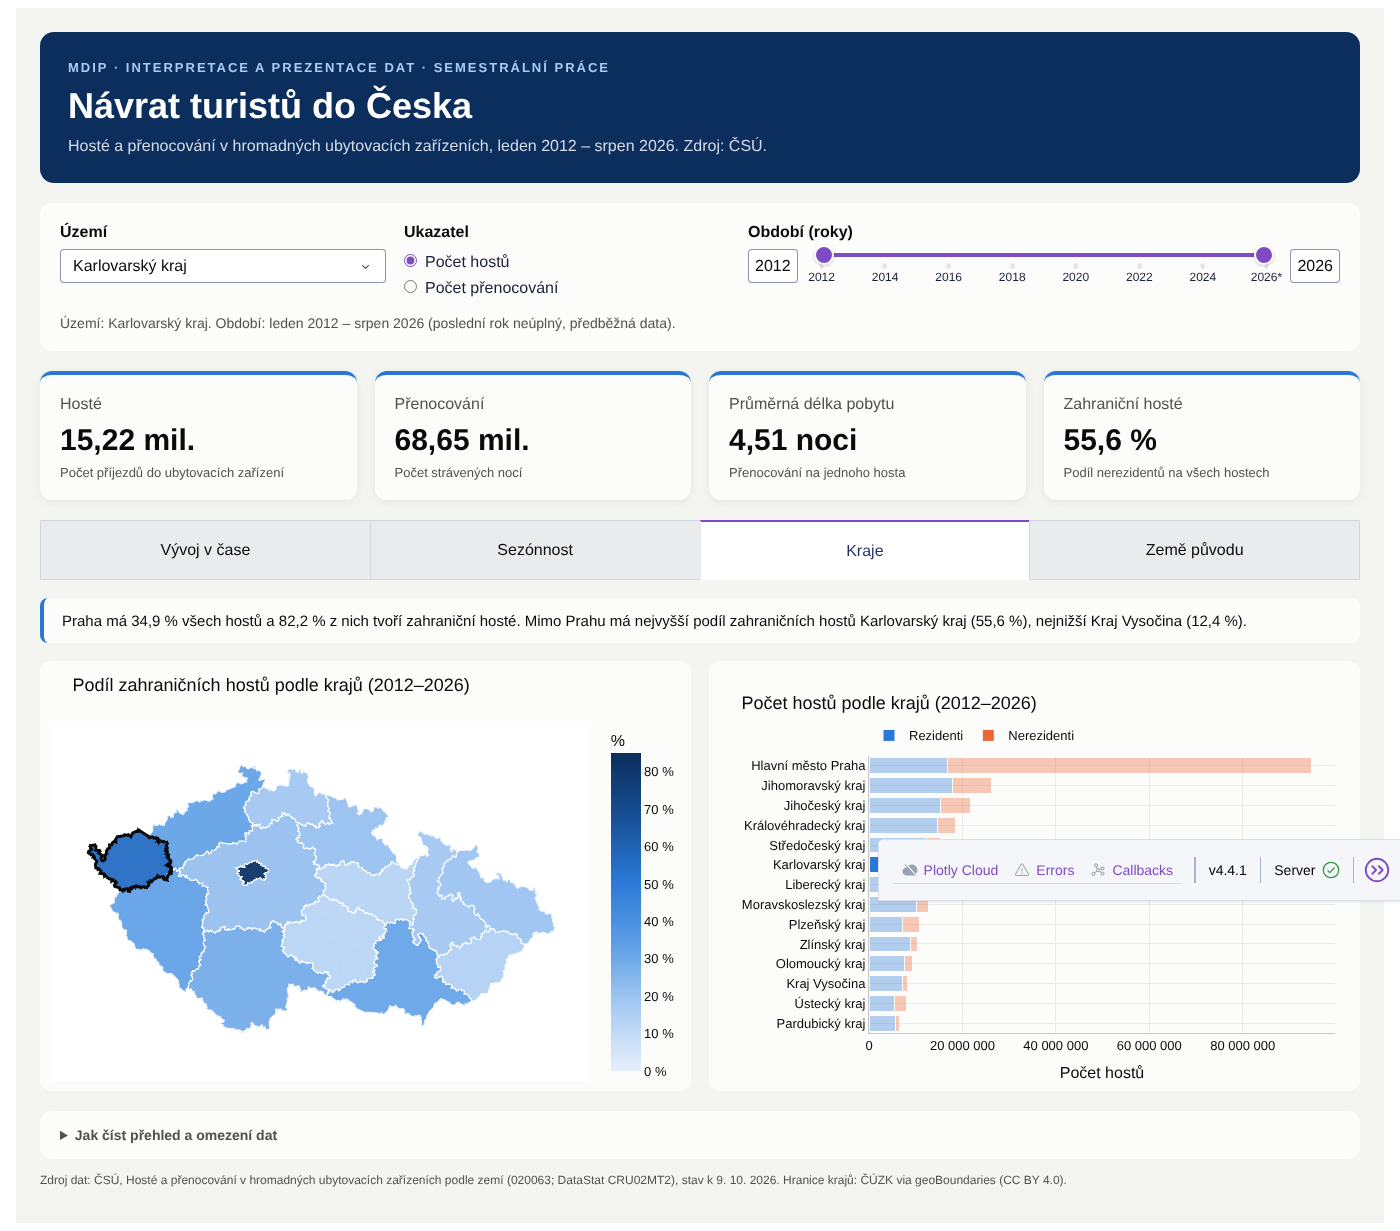
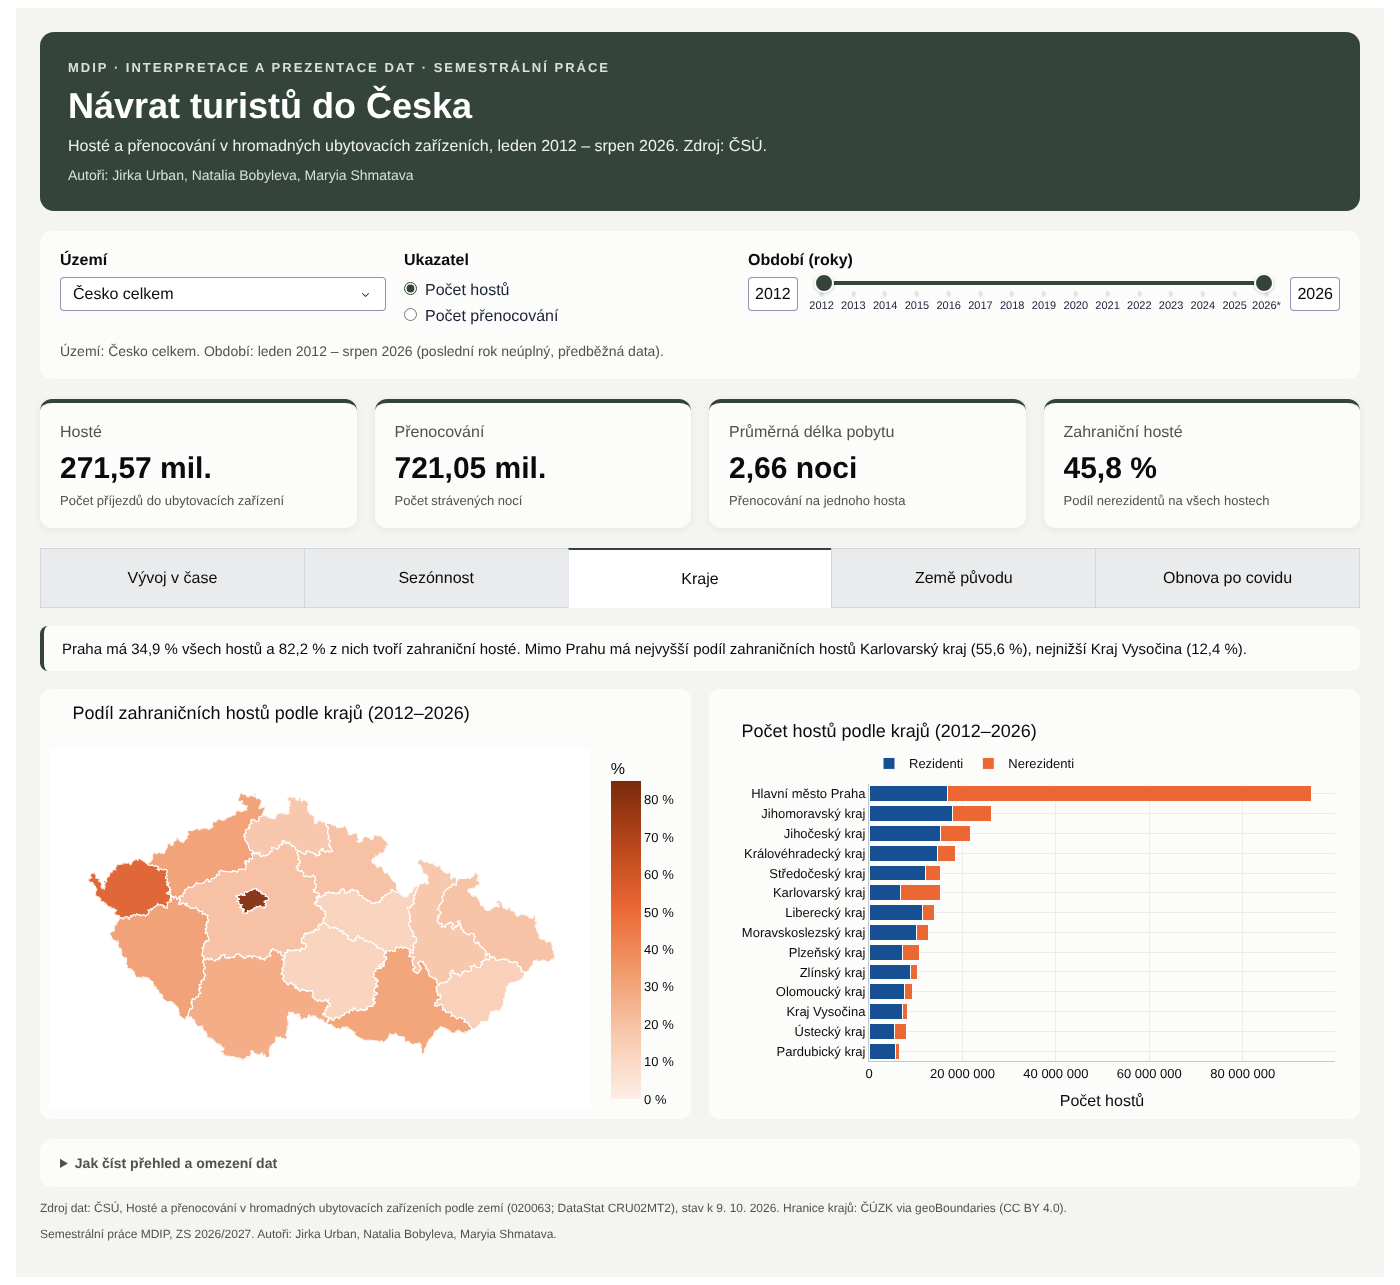
Nová barevná paleta, záložka Obnova po covidu, aktualizované náhledy

diff --git a/app.py b/app.py
@@ -46,18 +46,30 @@ MESICE = ["leden", "únor", "březen", "duben", "květen", "červen", "červenec
 MESICE_ZKR = ["I", "II", "III", "IV", "V", "VI", "VII", "VIII", "IX", "X", "XI", "XII"]
 
 # Vzhled: barvy prověřené na rozlišitelnost i pro poruchy barvocitu.
-BARVA_REZIDENTI = "#2a78d6"     # modrá
+BARVA_REZIDENTI = "#174f94"     # tmavší modrá: i na černobílé kopii odlišná od oranžové
 BARVA_NEREZIDENTI = "#eb6834"   # oranžová
 BARVA_SEDA = "#b9b8b2"
+BARVA_AKCENT = "#34443a"     # tmavá šalvějová: služební prvky (hlavička, proužky, posuvník, záložky)
+BARVA_CELKEM = "#5c7264"     # šalvějová: všichni hosté dohromady
+BARVA_CELKEM_NEUPLNY = "#c5d1c8"   # světlá šalvějová: neúplný rok
 TMAVA = "#0b0b0b"
 SEDY_TEXT = "#52514e"
 POZADI = "#f4f4f1"
 PLOCHA = "#fcfcfb"
-MODRA_SKALA = ["#e6f0fb", "#a9cbf2", "#5d9ee6", "#2a78d6", "#174f94", "#0b2e5c"]
+SALVEJOVA_SKALA = ["#f1f4f1", "#d2ddd4", "#a8bbad", "#7d9585", "#536a5b", "#2c3a31"]  # všichni hosté
+ORANZOVA_SKALA = ["#fdeee6", "#f8c9ae", "#f19a6c", "#eb6834", "#b8461a", "#7a2a0c"]   # zahraniční hosté
+MODRA_SKALA_REZ = ["#eef3fa", "#c9d8ee", "#94b3dc", "#5a88c4", "#174f94", "#0d2f5a"]  # rezidenti
+# Skupiny hostů pro záložku Obnova: popisek, barva sloupců, světlá barva, škála.
+# Barvy drží pravidlo: šalvějová = všichni, modrá = rezidenti, oranžová = nerezidenti.
+SKUPINY = {
+    "celkem": ("Všichni hosté", BARVA_CELKEM, BARVA_CELKEM_NEUPLNY, SALVEJOVA_SKALA),
+    "rezidenti": ("Rezidenti", BARVA_REZIDENTI, "#b9cbe6", MODRA_SKALA_REZ),
+    "nerezidenti": ("Nerezidenti", BARVA_NEREZIDENTI, "#f8c9ae", ORANZOVA_SKALA),
+}
 
 STYL_RADKU = {"display": "flex", "flexWrap": "wrap", "gap": "18px"}
 STYL_KARTY = {"backgroundColor": PLOCHA, "borderRadius": "12px", "padding": "20px",
-              "flex": "1 1 200px", "minWidth": 0, "borderTop": f"4px solid {BARVA_REZIDENTI}",
+              "flex": "1 1 200px", "minWidth": 0, "borderTop": f"4px solid {BARVA_AKCENT}",
               "boxShadow": "0 2px 8px #10243b10"}
 STYL_PANELU = {"backgroundColor": PLOCHA, "borderRadius": "12px", "overflow": "hidden",
                "flex": "1 1 480px", "minWidth": 0}
@@ -160,7 +172,7 @@ def graf_rocni_souhrn(uzemi, ukazatel, od, do):
     rocne["neuplny"] = rocne["rok"] == NEUPLNY_ROK
     if NEUPLNY_ROK in rocne["rok"].values:
         rocne.loc[rocne["neuplny"], "popisek"] = f"{NEUPLNY_ROK}*"
-    barvy = [BARVA_SEDA if n else BARVA_REZIDENTI for n in rocne["neuplny"]]
+    barvy = [BARVA_CELKEM_NEUPLNY if n else BARVA_CELKEM for n in rocne["neuplny"]]
     fig = go.Figure(go.Bar(
         x=rocne["popisek"], y=rocne[ukazatel], marker_color=barvy,
         marker_pattern_shape=["/" if n else "" for n in rocne["neuplny"]],
@@ -188,7 +200,7 @@ def graf_sezonnost(uzemi, ukazatel, od, do):
     tabulka = tabulka.reindex(range(1, 13))  # chybějící měsíce zůstanou prázdné, ne nulové
     fig = go.Figure(go.Heatmap(
         z=tabulka.values, x=[str(r) for r in tabulka.columns], y=MESICE,
-        colorscale=MODRA_SKALA, xgap=2, ygap=2, hoverongaps=False,
+        colorscale=SALVEJOVA_SKALA, xgap=2, ygap=2, hoverongaps=False,
         colorbar=dict(title=dict(text=UKAZATELE[ukazatel], side="right"), tickformat=",.0f"),
         hovertemplate="%{y} %{x}<br>%{z:,.0f}<extra></extra>"))
     fig.update_layout(title=f"{UKAZATELE[ukazatel]}: měsíc × rok")
@@ -235,7 +247,7 @@ def graf_mapa_kraju(ukazatel, od, do, zvyrazneny):
     tab = souhrn_kraju(ukazatel, od, do)
     fig = px.choropleth_map(
         tab, geojson=KRAJE_GEO, locations="uzemi", featureidkey="properties.kraj",
-        color="podil_nerez", color_continuous_scale=MODRA_SKALA, range_color=(0, 85),
+        color="podil_nerez", color_continuous_scale=ORANZOVA_SKALA, range_color=(0, 85),
         map_style="white-bg", center=dict(lat=49.8, lon=15.45), zoom=5.6, opacity=0.95,
         custom_data=["celkem", "nerezidenti"],
         title=f"Podíl zahraničních hostů podle krajů ({od}–{do})",
@@ -350,6 +362,109 @@ def graf_zmena_zemi(uzemi, ukazatel, od, do):
     return fig
 
 
+# Obnova po covidu (záložka 5) ------------------------------------------------
+# Index obnovy = hodnota roku v % roku 2019 (2019 = 100 %).
+# Srovnáváme s posledním úplným rokem vybraného období; neúplný 2026 nepočítáme.
+def posledni_rok_obnovy(do):
+# Vrátí rok, který se porovná s rokem 2019, nebo None, když období končí před rokem 2020.
+    b = do - 1 if do == NEUPLNY_ROK else do
+    return b if b >= 2020 else None
+
+
+def index_obnovy(ukazatel, skupina, do_roku):
+# Tabulka: řádky = kraje, sloupce = roky 2019..do_roku, hodnoty = % roku 2019.
+    data = df.loc[(df["uroven_uzemi"] == "kraj") & df["rok"].between(SROVNAVACI_ROK, do_roku)
+                  & (df["typ_rezidence"] == skupina)]
+    rocne = data.pivot_table(index="uzemi", columns="rok", values=ukazatel, aggfunc="sum")
+# Každý řádek vydělíme hodnotou roku 2019 (axis=0 = po řádcích) a převedeme na procenta.
+    return rocne.div(rocne[SROVNAVACI_ROK], axis=0) * 100
+
+
+def rok_navratu(radek):
+# První rok po pandemii, kdy kraj dosáhl aspoň 100 % roku 2019; None = zatím nedosáhl.
+    for rok, hodnota in radek.items():
+        if rok > SROVNAVACI_ROK and hodnota >= 100:
+            return rok
+    return None
+
+
+def graf_obnova_index(ukazatel, skupina, do, zvyrazneny):
+# Sloupce: kde je každý kraj v posledním úplném roce oproti roku 2019.
+    b = posledni_rok_obnovy(do)
+    popisek, barva, svetla, _ = SKUPINY[skupina]
+    if b is None:
+        return prazdny_graf("Obnova po covidu",
+                            "Vyberte období, které končí v roce 2020 nebo později.")
+# Hodnota posledního roku pro každý kraj, seřazená vzestupně (nejvyšší bude nahoře).
+    tab = index_obnovy(ukazatel, skupina, b)[b].sort_values()
+# Kraje pod úrovní 2019 světlejší a šrafované, ostatní plnou barvou skupiny.
+    pod = tab < 100
+    fig = go.Figure(go.Bar(
+        y=tab.index, x=tab.values, orientation="h",
+        marker_color=[svetla if p else barva for p in pod],
+        marker_pattern_shape=["/" if p else "" for p in pod],
+        marker_line_color=barva, marker_line_width=[1 if p else 0 for p in pod],
+# Vybraný kraj plně, ostatní poloprůhledně (stejně jako na záložce Kraje).
+        marker_opacity=[1 if zvyrazneny in ("Česko", k) else 0.4 for k in tab.index],
+        text=[format_cislo(v, 1) + " %" for v in tab.values], textposition="outside",
+        cliponaxis=False, textfont=dict(size=11, color=SEDY_TEXT),
+        hovertemplate="%{y}<br>" + str(b) + ": %{x:.1f} % roku 2019<extra></extra>"))
+# Svislá čára na 100 % = úroveň roku 2019.
+    fig.add_vline(x=100, line_dash="dash", line_color=TMAVA, line_width=1.5,
+                  annotation_text="úroveň 2019", annotation_position="top",
+                  annotation_font=dict(size=11, color=SEDY_TEXT))
+    fig.update_layout(title=f"{popisek}: {UKAZATELE[ukazatel].lower()} v roce {b} v % roku 2019"
+                            f"<br><sup>šrafované = v roce {b} pod úrovní roku 2019</sup>")
+# Osa od nuly (poctivé sloupce), s rezervou vpravo pro popisky.
+    fig.update_xaxes(range=[0, max(tab.max(), 100) * 1.15], ticksuffix=" %",
+                     title_text=f"% roku {SROVNAVACI_ROK}")
+    fig = uprav_graf(fig, vyska=460)
+    fig.update_layout(margin=dict(l=160, r=40, t=90, b=55))
+    return fig
+
+
+def graf_obnova_mapa(ukazatel, skupina, do, zvyrazneny):
+# Teplotní mapa kraj × rok: jak rychle se kraje vracely; ✓ = dosaženo 100 % roku 2019.
+    b = posledni_rok_obnovy(do)
+    popisek, _, _, skala = SKUPINY[skupina]
+    if b is None:
+        return prazdny_graf("Jak rychle se kraje vracely",
+                            "Vyberte období, které končí v roce 2020 nebo později.")
+    tab = index_obnovy(ukazatel, skupina, b).drop(columns=SROVNAVACI_ROK)
+# Pořadí řádků: kdo se vrátil dřív, je nahoře; kdo dosud ne, je dole.
+    navrat = tab.apply(rok_navratu, axis=1)
+    # Kraj, který se nevrátil (prázdná hodnota), dostane rok 9999, aby byl na konci.
+    poradi = sorted(tab.index, key=lambda k: (9999 if pd.isna(navrat[k]) else navrat[k], -tab.loc[k, b]))
+    tab = tab.loc[poradi]
+    roky = [str(r) for r in tab.columns]
+# Názvy krajů; vybraný kraj tučně (<b>…</b>).
+    nazvy = [f"<b>{k}</b>" if k == zvyrazneny else k for k in tab.index]
+    fig = go.Figure(go.Heatmap(
+        z=tab.values, x=roky, y=nazvy, colorscale=skala, zmin=0, zmax=max(130, tab.values.max()),
+        xgap=2, ygap=2, colorbar=dict(title=dict(text="% 2019", side="right"), ticksuffix=" %"),
+        hovertemplate="%{y}<br>%{x}: %{z:.1f} % roku 2019<extra></extra>"))
+# Do každé buňky číslo; ✓ tam, kde kraj dosáhl úrovně 2019. Barvu textu volíme podle
+# tmavosti buňky (bílý na tmavé, tmavý na světlé), aby byl vždy čitelný.
+    hranice = max(130, tab.values.max()) * 0.55
+    # Pozice buňky zadáváme pořadím (j, i): text "2020" by Plotly bral jako 2020. kategorii.
+    for i, kraj in enumerate(nazvy):
+        for j, rok in enumerate(roky):
+            v = tab.iloc[i, j]
+            # 99,5–99,9 % ukážeme s desetinou, aby po zaokrouhlení nevypadalo jako 100 bez ✓.
+            fig.add_annotation(x=j, y=i, showarrow=False,
+                               text=(format_cislo(v, 1) if 99.5 <= v < 100 else f"{v:.0f}")
+                               + (" ✓" if v >= 100 else ""),
+                               font=dict(size=11, color="white" if v > hranice else TMAVA))
+    fig.update_layout(title=f"Jak rychle se kraje vracely: {popisek.lower()}, "
+                            f"{UKAZATELE[ukazatel].lower()} v % roku 2019"
+                            "<br><sup>✓ = úroveň roku 2019 dosažena; nahoře kraje, které se vrátily nejdřív</sup>")
+    fig.update_yaxes(autorange="reversed", showgrid=False)
+    fig.update_xaxes(type="category", showgrid=False, title_text="Rok")
+    fig = uprav_graf(fig, vyska=460)
+    fig.update_layout(margin=dict(l=160, r=25, t=90, b=55))
+    return fig
+
+
 # Komentáře vypočtené z dat (mění se spolu s filtry) ---------------------------
 def komentar_vyvoj(uzemi, ukazatel):
     def rok(r, typ):
@@ -390,6 +505,33 @@ def komentar_kraje(ukazatel, od, do):
             f"{mimo.iloc[0]['uzemi']} ({format_cislo(mimo.iloc[0]['podil_nerez'], 1)} %).")
 
 
+def komentar_obnova(ukazatel, skupina, do):
+# Kdo se vrátil nejdřív a kdo je v posledním úplném roce stále pod úrovní 2019.
+    b = posledni_rok_obnovy(do)
+    if b is None:
+        return "Pro srovnání s rokem 2019 vyberte období, které končí v roce 2020 nebo později."
+    popisek = SKUPINY[skupina][0]
+    tab = index_obnovy(ukazatel, skupina, b)
+    navrat = tab.apply(rok_navratu, axis=1).dropna()
+    text = f"{popisek} ({UKAZATELE[ukazatel].lower()}): "
+    if not navrat.empty:
+        prvni = int(navrat.min())
+        rychle = ", ".join(k for k in navrat.index if navrat[k] == prvni)
+        text += f"nejrychleji, už v roce {prvni}, se na úroveň 2019 vrátily: {rychle}. "
+    pod = tab[b][tab[b] < 100].sort_values()
+    if pod.empty:
+        nejtesneji = tab[b].idxmin()
+        text += (f"V roce {b} jsou všechny kraje nad úrovní 2019, nejtěsněji "
+                 f"{nejtesneji} ({format_cislo(tab[b].min(), 1)} %).")
+    elif len(pod) == len(tab):
+        text += (f"V roce {b} jsou pod úrovní 2019 všechny kraje "
+                 f"(od {format_cislo(pod.min(), 1)} do {format_cislo(pod.max(), 1)} %).")
+    else:
+        seznam = ", ".join(f"{k} ({format_cislo(v, 1)} %)" for k, v in pod.items())
+        text += f"V roce {b} jsou pod úrovní 2019: {seznam}."
+    return text
+
+
 # 4. Komponenty a rozvržení ------------------------------------------------------
 def vytvor_kartu(nazev, id_hodnoty, vysvetleni):
     return html.Div([
@@ -415,7 +557,7 @@ def graf(id_grafu):
 
 def komentar(id_textu):
     return html.P(id=id_textu, role="status",
-                  style={"backgroundColor": PLOCHA, "borderLeft": f"4px solid {BARVA_REZIDENTI}",
+                  style={"backgroundColor": PLOCHA, "borderLeft": f"4px solid {BARVA_AKCENT}",
                          "padding": "14px 18px", "borderRadius": "8px", "margin": "0 0 18px",
                          "color": TMAVA, "fontSize": "15px"})
 
@@ -431,15 +573,15 @@ app.title = "Návrat turistů do Česka"
 app.layout = html.Div([
     html.Header([
         html.P("MDIP · INTERPRETACE A PREZENTACE DAT · SEMESTRÁLNÍ PRÁCE",
-               style={"color": "#a9cbf2", "fontSize": "13px", "fontWeight": "700",
+               style={"color": "#d8e0d8", "fontSize": "13px", "fontWeight": "700",
                       "letterSpacing": "2px", "margin": 0}),
         html.H1("Návrat turistů do Česka", style={"fontSize": "36px", "margin": "10px 0"}),
         html.P(f"Hosté a přenocování v hromadných ubytovacích zařízeních, "
                f"{popis_obdobi(PRVNI_ROK, POSLEDNI_ROK)}. Zdroj: ČSÚ.",
-               style={"color": "#d4dbe6", "margin": 0}),
+               style={"color": "#eef2ee", "margin": 0}),
         html.P(f"Autoři: {', '.join(AUTORI)}",
-               style={"color": "#a9cbf2", "margin": "12px 0 0", "fontSize": "14px"}),
-    ], style={"backgroundColor": "#0b2e5c", "color": "white", "padding": "28px",
+               style={"color": "#d8e0d8", "margin": "12px 0 0", "fontSize": "14px"}),
+    ], style={"backgroundColor": BARVA_AKCENT, "color": "white", "padding": "28px",
               "borderRadius": "14px", "marginBottom": "20px"}),
 
     html.Div([
@@ -487,6 +629,19 @@ app.layout = html.Div([
             html.Div(style={"height": "18px"}),
             html.Div([graf("graf-top-zeme"), graf("graf-zmena-zemi")], style=STYL_RADKU),
         ]),
+        dcc.Tab(label="Obnova po covidu", value="obnova", children=[
+            html.Div(style={"height": "18px"}),
+# Přepínač skupiny hostů jen pro tuto záložku.
+            html.Div([
+                html.Span("Skupina hostů: ", style={"fontWeight": "700", "marginRight": "10px"}),
+                dcc.RadioItems(id="skupina-obnova", value="celkem", inline=True,
+                               options=[{"label": f" {v[0]}", "value": k} for k, v in SKUPINY.items()],
+                               labelStyle={"marginRight": "18px"}),
+            ], style={"display": "flex", "flexWrap": "wrap", "alignItems": "center",
+                      "marginBottom": "14px"}),
+            komentar("text-obnova"),
+            html.Div([graf("graf-obnova-index"), graf("graf-obnova-mapa")], style=STYL_RADKU),
+        ]),
     ]),
 
     html.Details([
@@ -516,7 +671,8 @@ app.layout = html.Div([
         html.P(f"Semestrální práce MDIP, ZS 2026/2027. Autoři: {', '.join(AUTORI)}."),
     ], style={"fontSize": "12px", "color": SEDY_TEXT, "marginTop": "14px"}),
 ], style={"fontFamily": "Arial, sans-serif", "color": TMAVA, "backgroundColor": POZADI,
-          "maxWidth": "1320px", "margin": "0 auto", "padding": "24px"})
+          "maxWidth": "1320px", "margin": "0 auto", "padding": "24px",
+          "--Dash-Fill-Interactive-Strong": BARVA_AKCENT, "--Dash-Text-Primary": TMAVA})
 
 
 # 5. Callback: všechny výstupy počítáme ze stejného výběru ------------------------
@@ -537,11 +693,17 @@ app.layout = html.Div([
     Output("graf-kraje", "figure"),
     Output("graf-top-zeme", "figure"),
     Output("graf-zmena-zemi", "figure"),
+# Záložka 5: text + 2 grafy.
+    Output("text-obnova", "children"),
+    Output("graf-obnova-index", "figure"),
+    Output("graf-obnova-mapa", "figure"),
     Input("uzemi", "value"),
     Input("ukazatel", "value"),
     Input("roky", "value"),
+# Čtvrtý vstup: skupina hostů na záložce Obnova.
+    Input("skupina-obnova", "value"),
 )
-def aktualizuj_dashboard(uzemi, ukazatel, roky):
+def aktualizuj_dashboard(uzemi, ukazatel, roky, skupina):
     od, do = sorted(roky)
     celkem = vyber(uzemi, od, do, typ="celkem")
     nerez = vyber(uzemi, od, do, typ="nerezidenti")
@@ -570,6 +732,9 @@ def aktualizuj_dashboard(uzemi, ukazatel, roky):
         graf_kraje_sloupce(ukazatel, od, do, uzemi),
         graf_top_zeme(uzemi, ukazatel, od, do),
         graf_zmena_zemi(uzemi, ukazatel, od, do),
+        komentar_obnova(ukazatel, skupina, do),
+        graf_obnova_index(ukazatel, skupina, do, uzemi),
+        graf_obnova_mapa(ukazatel, skupina, do, uzemi),
     )
 
 
